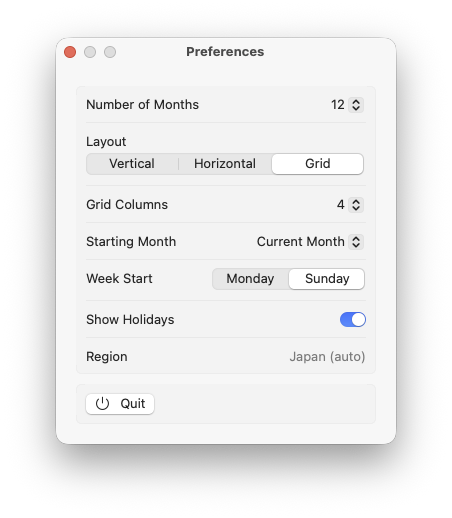
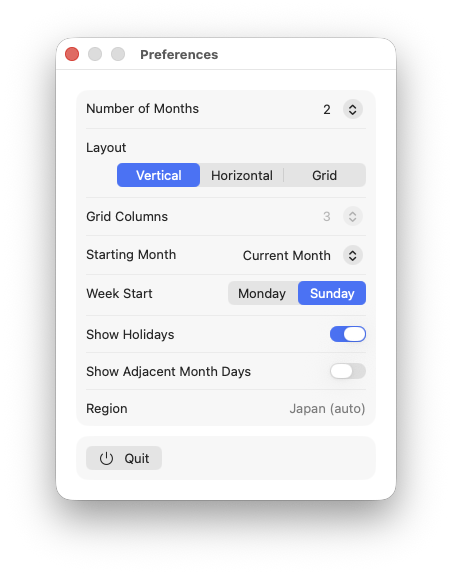
docs: add Show Adjacent Month Days comparison to README
Add an On/Off comparison of the "Show Adjacent Month Days" toggle
(faint previous/next-month dates filling the week-row blanks), cropped
and compressed like the other screenshots, plus an updated preferences
screenshot.

diff --git a/README.md b/README.md
@@ -77,6 +77,23 @@ A tiny, blazing-fast, **read-only** calendar that lives in your macOS menu bar. 
   </tr>
 </table>
 
+<h3 align="center">🩶 Fill the blanks — <em>Show Adjacent Month Days</em></h3>
+
+<p align="center">Flip one toggle to fill the empty cells before the 1st and after the last day with the neighboring month's dates in a faint gray — so every week row stays complete. Or turn it off for a clean, uncluttered grid.</p>
+
+<table align="center">
+  <tr>
+    <td align="center" valign="top">
+      <img src="docs/screenshots/adjacent-days-on.png" alt="Show Adjacent Month Days turned on" width="160" height="287"><br>
+      <sub><strong>On</strong> · blanks filled faintly</sub>
+    </td>
+    <td align="center" valign="top">
+      <img src="docs/screenshots/adjacent-days-off.png" alt="Show Adjacent Month Days turned off" width="160" height="287"><br>
+      <sub><strong>Off</strong> · clean blanks</sub>
+    </td>
+  </tr>
+</table>
+
 ## Why you'll like it
 
 - 📆 **See multiple months at once** — 1, 2, 3, 6, or 12 months in a single click. Plan a quarter or eyeball the whole year without scrolling.